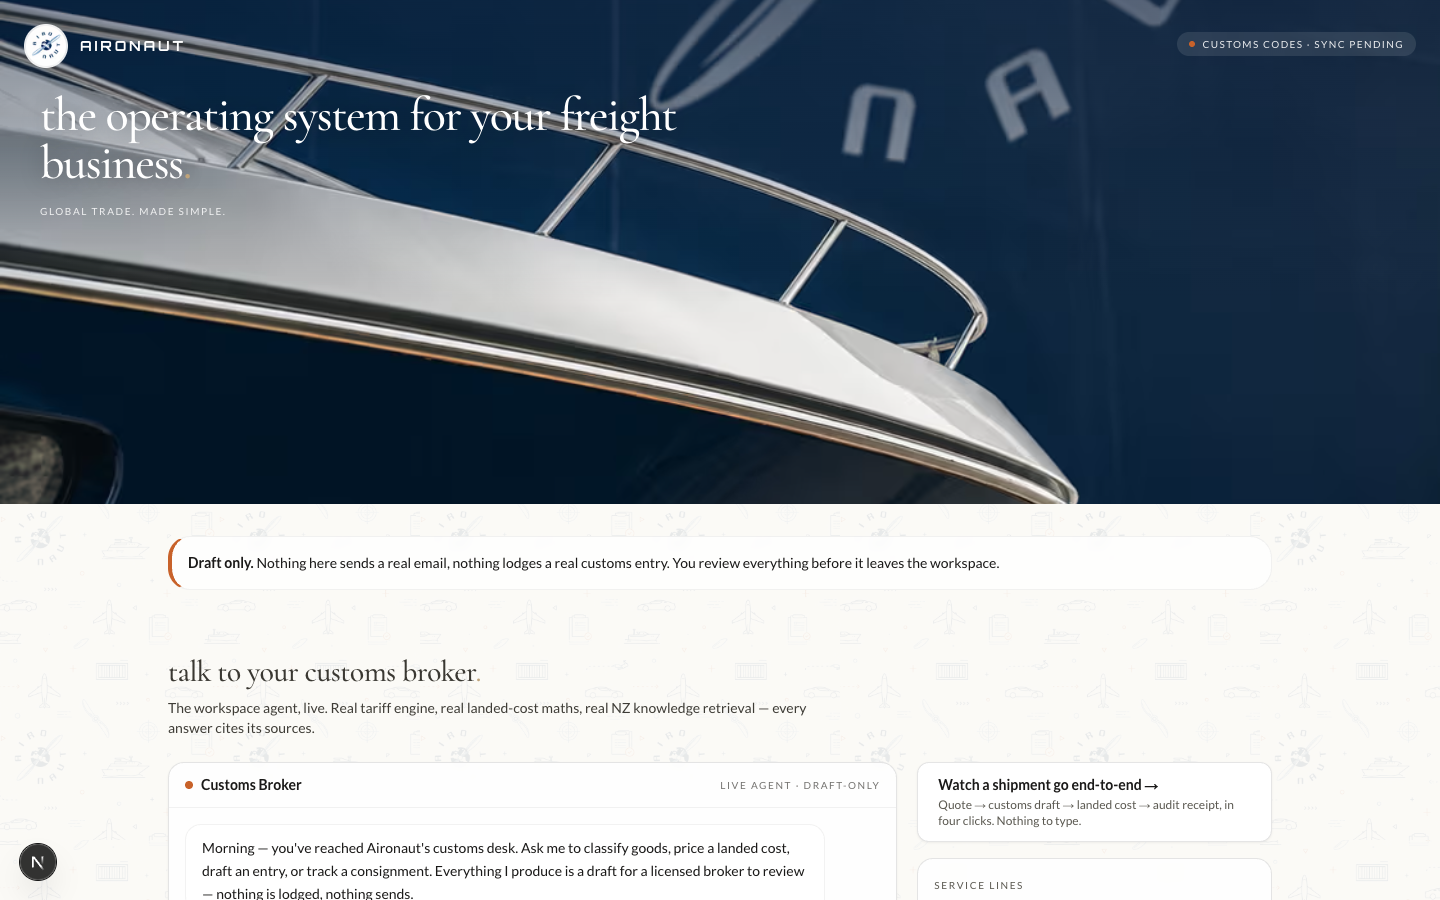
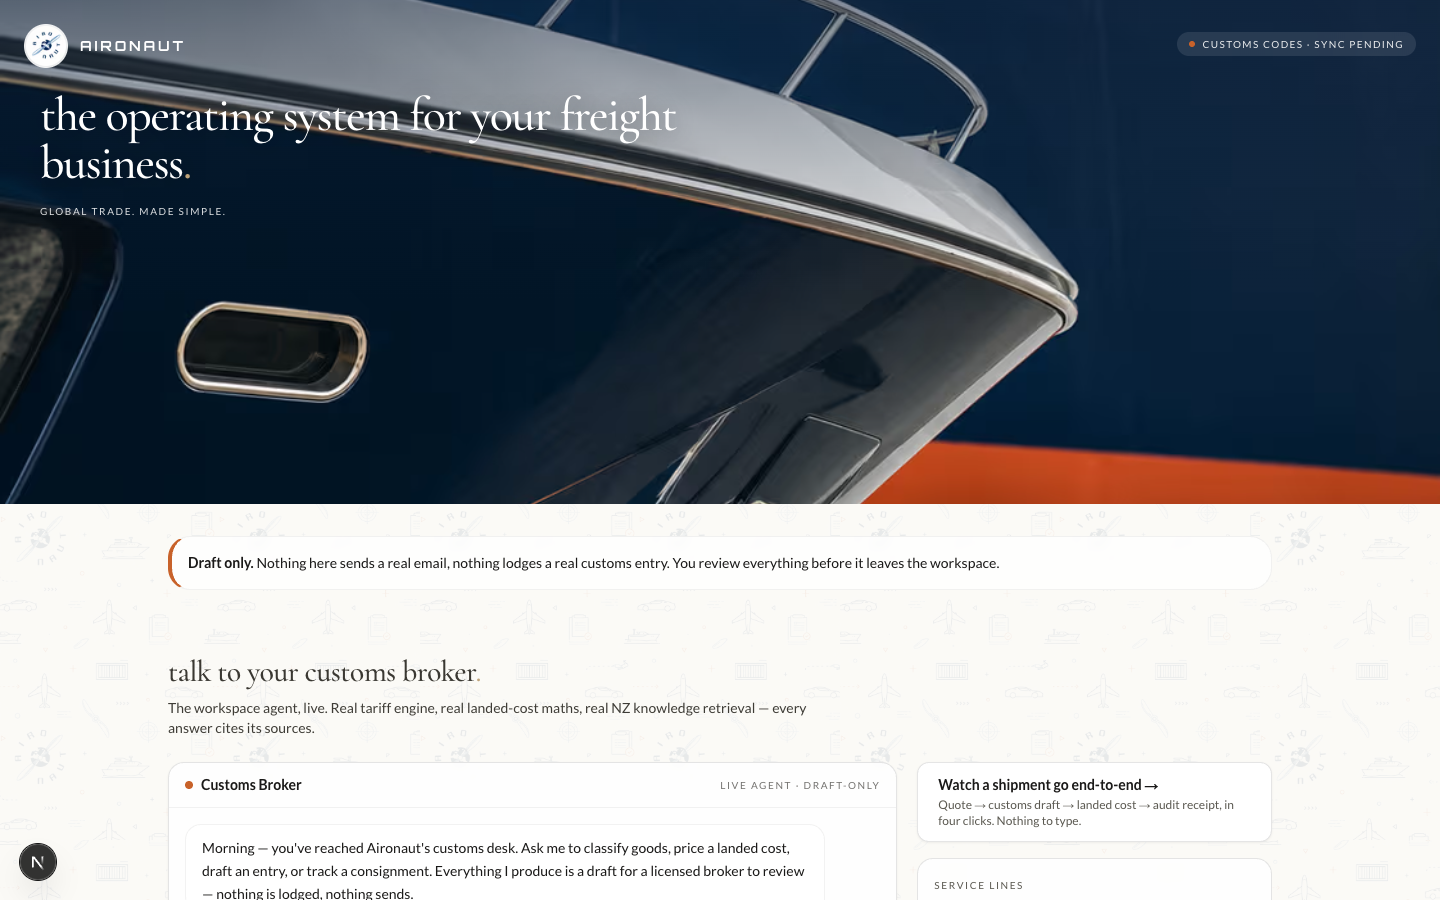
fix(aironaut): drop the desktop hero crop to 68% — full bow + orange stripe
Follow-up to #721. The 52% crop put the bright rail under the headline;
at 68% the bow's navy hull carries the type and the orange brand stripe
anchors the frame. Mobile crop unchanged.

Changed region(s): [[0.0, 0.0, 1.0, 0.56], [0.75, 0.0, 0.8125, 0.0311]]

diff --git a/app/customers/aironaut/ops/page.tsx b/app/customers/aironaut/ops/page.tsx
@@ -182,7 +182,7 @@ export default function AironautOsHome() {
           // the bow still in frame. On desktop the visible band is only ~28%
           // of the image height — 30% lands entirely on the painted hull, so
           // drop the crop to keep the yacht bow in view (Kate, 2026-07-05).
-          className="aironaut-hero-kenburns object-cover object-[62%_30%] md:object-[62%_52%]"
+          className="aironaut-hero-kenburns object-cover object-[62%_30%] md:object-[62%_68%]"
         />
         {/* Navy scrim behind the chrome + headline — keeps white type legible
             where the crop puts the pale hull under it (375px). */}
